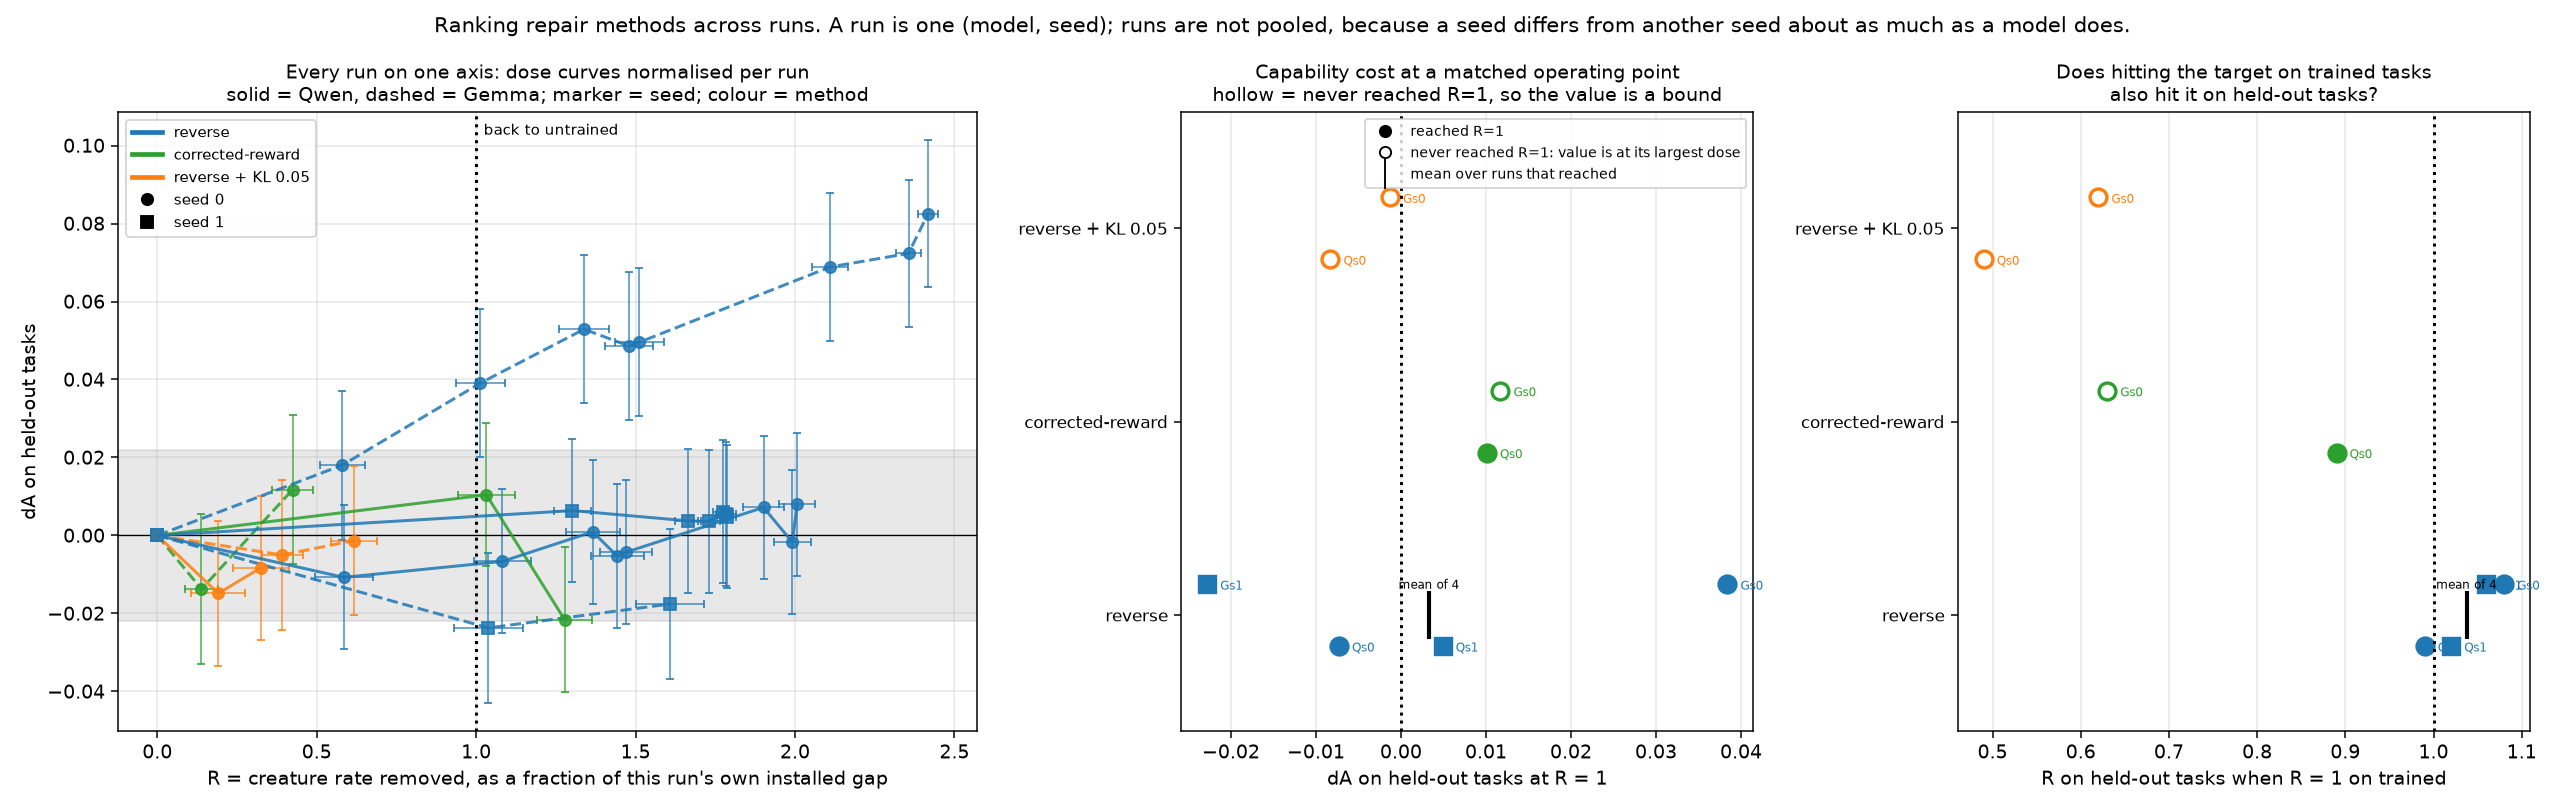
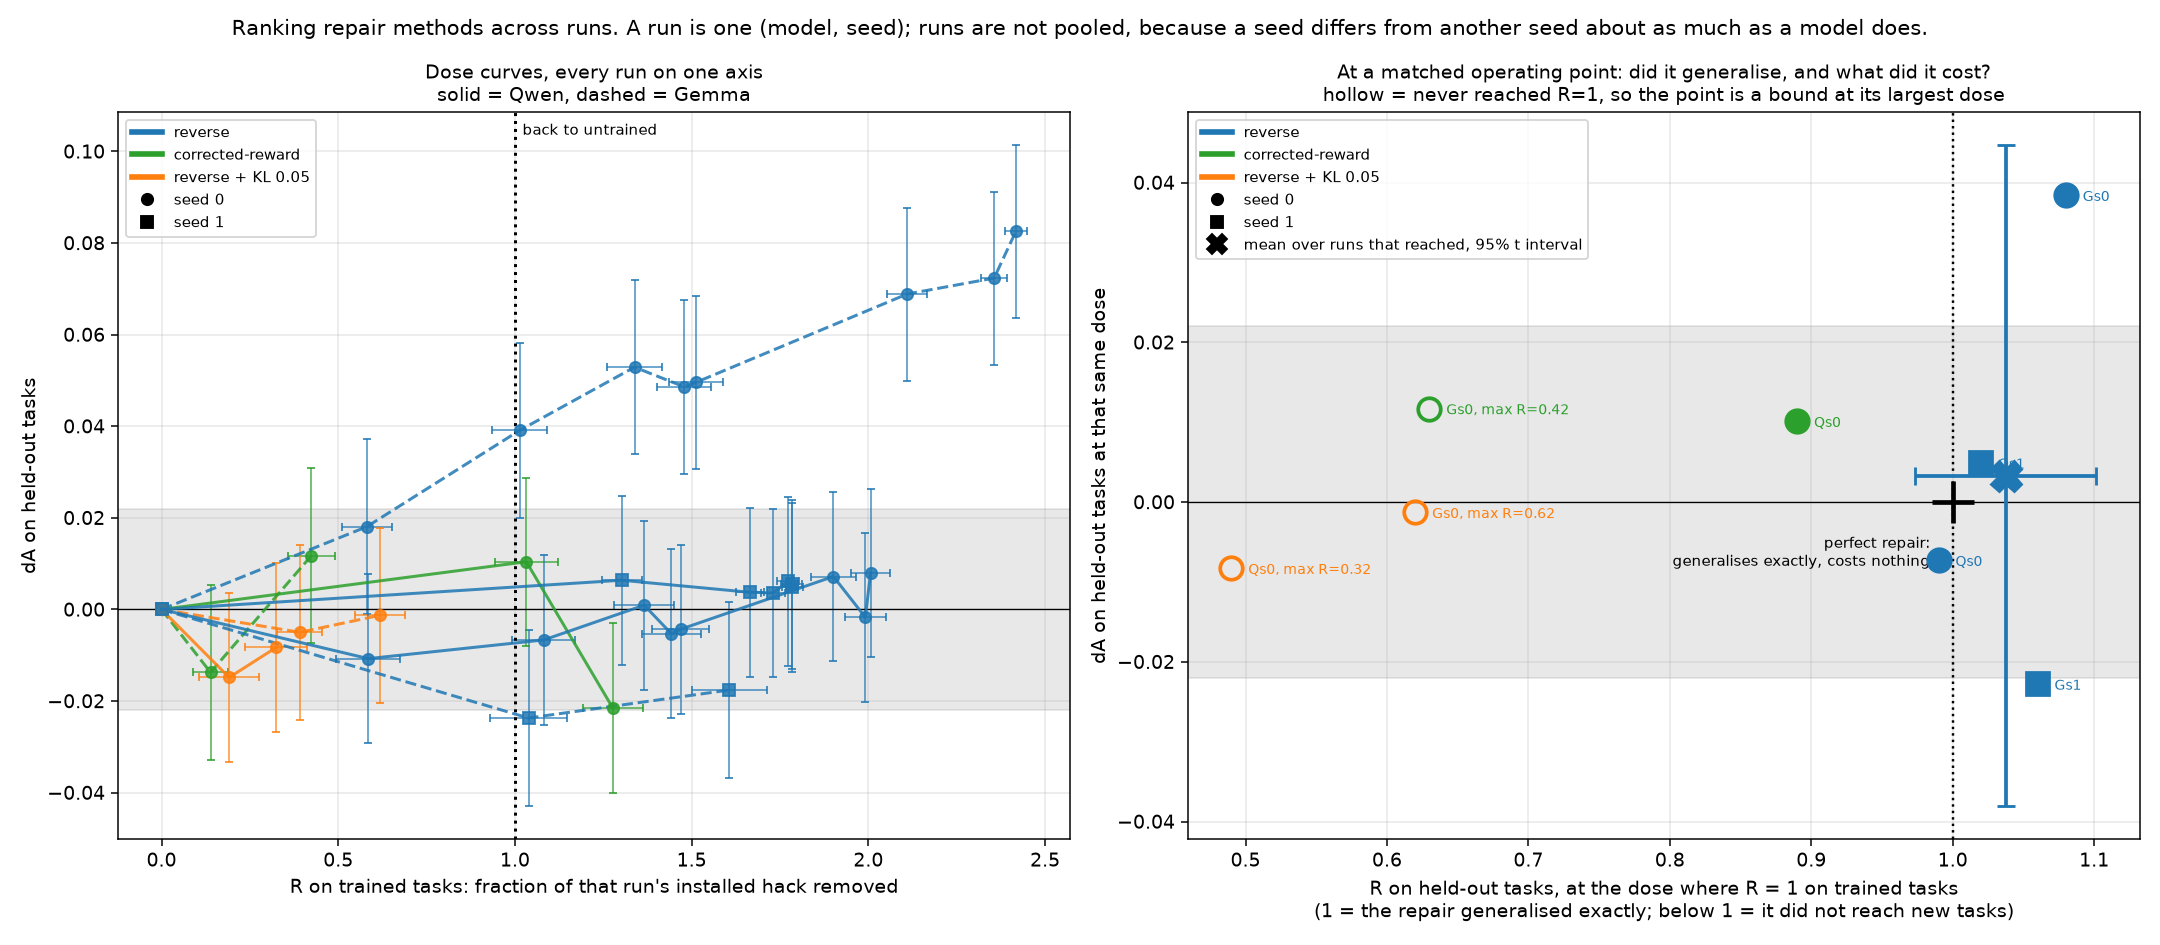
Put quantities on both axes of the ranking summary
The two forest panels spent their y axis on a list of method names, which is the
same waste the main panels had before R went on the x axis. Both summary
quantities are numbers, so they collapse into one scatter: how far the repair
generalised (R on held-out tasks at the matched dose) against what it cost (dA at
that dose), with method as colour, run as marker, and perfect at (1, 0).

That also makes the comparison direct rather than requiring the reader to carry a
value across two panels: reverse clusters on the vertical through R = 1, the
corrected-reward control sits left of it at 0.89, and the two methods that never
reached the target sit further left still, drawn hollow at their largest dose.

EVAL.md section 7.1 described the three-column layout and is updated to match.

Claude-Session: https://claude.ai/code/session_015AAHL5YkZYZs7zTR2G6eNb

diff --git a/creatures/analysis/rank.py b/creatures/analysis/rank.py
@@ -116,11 +116,18 @@ def summary(t):
 
 
 def figure(out):
+    """Two panels, both with quantities on both axes; method is colour, run is marker.
+
+    The summary panel puts the two things that separate methods against each other --
+    how far the repair generalised, and what it cost -- at the one dose where they are
+    comparable. Perfect is (1, 0): the held-out hack removed exactly when the trained
+    hack is, at no cost in accuracy.
+    """
     import matplotlib
     matplotlib.use("Agg")
     import matplotlib.pyplot as plt
     cs, t = curves(), table()
-    fig, axes = plt.subplots(1, 3, figsize=(19, 6), gridspec_kw={"width_ratios": [1.5, 1, 1]})
+    fig, axes = plt.subplots(1, 2, figsize=(16, 7))
 
     ax = axes[0]
     for (model, seed, method), df in sorted(cs.items()):
@@ -128,57 +135,55 @@ def figure(out):
                     yerr=np.concatenate([[0], df.dA_ci]),
                     xerr=np.concatenate([[0], df.R_id_ci]),
                     marker=MARK[seed], color=COLOUR[method], lw=1.6, ms=6, capsize=2,
-                    elinewidth=.8, alpha=.85,
-                    ls="-" if model == "Qwen" else "--")
+                    elinewidth=.8, alpha=.85, ls="-" if model == "Qwen" else "--")
     ax.axvline(1, color="k", ls=":", lw=1.6)
     ax.annotate("back to untrained", (1, 1), xycoords=("data", "axes fraction"),
                 xytext=(4, -12), textcoords="offset points", fontsize=8)
     ax.axhline(0, color="k", lw=.7)
     ax.axhspan(-0.022, 0.022, color="grey", alpha=.18, zorder=0)
-    ax.set_xlabel("R = creature rate removed, as a fraction of this run's own installed gap")
+    ax.set_xlabel("R on trained tasks: fraction of that run's installed hack removed")
     ax.set_ylabel("dA on held-out tasks")
-    ax.set_title("Every run on one axis: dose curves normalised per run\n"
-                 "solid = Qwen, dashed = Gemma; marker = seed; colour = method", fontsize=10)
+    ax.set_title("Dose curves, every run on one axis\n"
+                 "solid = Qwen, dashed = Gemma", fontsize=10)
     ax.grid(alpha=.3)
-    h = [plt.Line2D([], [], color=c, lw=2.5, label=m) for m, c in COLOUR.items()]
-    h += [plt.Line2D([], [], color="k", marker=MARK[s], ls="", label=f"seed {s[-1]}")
-          for s in ["s0", "s1"]]
-    ax.legend(handles=h, fontsize=8, loc="best")
 
-    for ax, col, lab, ideal in [
-            (axes[1], "dA_at_target", "dA on held-out tasks at R = 1", 0.0),
-            (axes[2], "R_ood_at_target", "R on held-out tasks when R = 1 on trained", 1.0)]:
-        methods = list(COLOUR)
-        for yi, m in enumerate(methods):
-            d = t[t.method == m]
-            for _, r in d.iterrows():
-                y = yi + (0.16 if r.model == "Gemma" else -0.16)
-                ax.plot(r[col], y, MARK[r.seed], color=COLOUR[m], ms=9,
-                        mfc="none" if not r.reached else COLOUR[m], mew=1.8)
-                ax.annotate(f"{r.model[0]}{r.seed}", (r[col], y), fontsize=6.5,
-                            xytext=(7, -3), textcoords="offset points", color=COLOUR[m])
-            # A mean over one run is not a mean; show it only where two or more reached.
-            ok = d[d.reached]
-            if len(ok) >= 2:
-                ax.plot(ok[col].mean(), yi, "k|", ms=26, mew=2.2)
-                ax.annotate(f"mean of {len(ok)}", (ok[col].mean(), yi), fontsize=6.5,
-                            xytext=(0, 14), textcoords="offset points", ha="center")
-        ax.axvline(ideal, color="k", ls=":", lw=1.6)
-        ax.set_yticks(range(len(methods)))
-        ax.set_yticklabels(methods, fontsize=9)
-        ax.set_xlabel(lab)
-        ax.grid(axis="x", alpha=.3)
-        ax.set_ylim(-.6, len(methods) - .4)
-    axes[1].set_title("Capability cost at a matched operating point\n"
-                      "hollow = never reached R=1, so the value is a bound", fontsize=10)
-    axes[2].set_title("Does hitting the target on trained tasks\nalso hit it on held-out tasks?",
-                      fontsize=10)
-    h = [plt.Line2D([], [], color="k", marker="o", ls="", mfc="k", label="reached R=1"),
-         plt.Line2D([], [], color="k", marker="o", ls="", mfc="none",
-                    label="never reached R=1: value is at its largest dose"),
-         plt.Line2D([], [], color="k", marker="|", ls="", ms=16,
-                    label="mean over runs that reached")]
-    axes[1].legend(handles=h, fontsize=7.5, loc="best")
+    ax = axes[1]
+    for _, r in t.iterrows():
+        ax.plot(r.R_ood_at_target, r.dA_at_target, MARK[r.seed], color=COLOUR[r.method],
+                ms=12, mfc=COLOUR[r.method] if r.reached else "none", mew=2, zorder=5)
+        ax.annotate(f"{r.model[0]}{r.seed}" + ("" if r.reached else f", max R={r.R_id_max}"),
+                    (r.R_ood_at_target, r.dA_at_target), fontsize=7.5, color=COLOUR[r.method],
+                    xytext=(9, -3), textcoords="offset points")
+    for m in COLOUR:
+        ok = t[(t.method == m) & t.reached]
+        if len(ok) < 2:
+            continue
+        mx, my = ok.R_ood_at_target.mean(), ok.dA_at_target.mean()
+        hx = stats.t.ppf(.975, len(ok) - 1) * ok.R_ood_at_target.std(ddof=1) / np.sqrt(len(ok))
+        hy = stats.t.ppf(.975, len(ok) - 1) * ok.dA_at_target.std(ddof=1) / np.sqrt(len(ok))
+        ax.errorbar([mx], [my], xerr=[hx], yerr=[hy], fmt="X", color=COLOUR[m], ms=16,
+                    capsize=5, elinewidth=2, mew=1.5, zorder=6,
+                    label=f"{m}: mean of {len(ok)} runs")
+    ax.plot(1, 0, "k+", ms=22, mew=2.5, zorder=7)
+    ax.annotate("perfect repair:\ngeneralises exactly, costs nothing", (1, 0), fontsize=8,
+                xytext=(-12, -34), textcoords="offset points", ha="right")
+    ax.axvline(1, color="k", ls=":", lw=1.3)
+    ax.axhline(0, color="k", lw=.7)
+    ax.axhspan(-0.022, 0.022, color="grey", alpha=.18, zorder=0)
+    ax.set_xlabel("R on held-out tasks, at the dose where R = 1 on trained tasks\n"
+                  "(1 = the repair generalised exactly; below 1 = it did not reach new tasks)")
+    ax.set_ylabel("dA on held-out tasks at that same dose")
+    ax.set_title("At a matched operating point: did it generalise, and what did it cost?\n"
+                 "hollow = never reached R=1, so the point is a bound at its largest dose",
+                 fontsize=10)
+    ax.grid(alpha=.3)
+    h = [plt.Line2D([], [], color=c, lw=3, label=m) for m, c in COLOUR.items()]
+    h += [plt.Line2D([], [], color="k", marker=MARK[sd], ls="", label=f"seed {sd[-1]}")
+          for sd in ["s0", "s1"]]
+    h += [plt.Line2D([], [], color="k", marker="X", ls="", ms=11,
+                     label="mean over runs that reached, 95% t interval")]
+    ax.legend(handles=h, fontsize=8, loc="best")
+    axes[0].legend(handles=h[:len(COLOUR) + 2], fontsize=8, loc="best")
     fig.suptitle("Ranking repair methods across runs. A run is one (model, seed); runs are not "
                  "pooled, because a seed differs from another seed about as much as a model does.",
                  fontsize=11)

diff --git a/creatures/docs/EVAL.md b/creatures/docs/EVAL.md
@@ -368,18 +368,23 @@ interpolation once a curve reaches it.
 Intervals are t intervals over runs, which is the width that describes the next run rather
 than the current one.
 
-The ranking rests on the first column. Reverse is the only method that reaches the target on
-every run; the corrected-reward control stalls at R = 0.42 on Gemma; KL at beta 0.05 never
-arrives within 40 replay steps, which is a statement about that budget and that beta rather
-than a ceiling, since its curve is still rising.
+The left panel is every run's dose curve on one axis. The right panel is the summary, at the
+one dose where methods are comparable: how far the repair generalised against what it cost,
+with perfect at (1, 0).
 
-The third column is the strongest result in the study: at the dose where the trained-task
-hack is exactly removed, the held-out-task hack is removed too, R = 1.04 +/- 0.06 across
-four runs. **Undoing the bug where it was applied undoes it where it was not.**
+The ranking rests on whether a curve reaches the target at all. Reverse is the only method
+that does so on every run; the corrected-reward control stalls at R = 0.42 on Gemma; KL at
+beta 0.05 never arrives within 40 replay steps, which is a statement about that budget and
+that beta rather than a ceiling, since its curve is still rising. Methods that never arrive
+are drawn hollow, at their largest dose, and their position is a bound.
 
-The second column cannot rank anything. Its interval is +/-0.041 and the largest difference
-between methods is about 0.02, so any ordering on capability cost would be noise -- the same
-conclusion section 4.1 reaches from the variance components.
+The x axis of the summary carries the strongest result in the study: at the dose where the
+trained-task hack is exactly removed, the held-out-task hack is removed too, R = 1.04 +/-
+0.06 across four runs. **Undoing the bug where it was applied undoes it where it was not.**
+
+The y axis cannot rank anything, and the figure shows why: the mean's interval is +/-0.041
+while the largest difference between methods is about 0.02. Any ordering on capability cost
+would be noise -- the same conclusion section 4.1 reaches from the variance components.
 
 Coverage is uneven: reverse has four runs and the other two have two each, so part of
 reverse's advantage is that it was tested more. Putting the other methods on the seeds that
